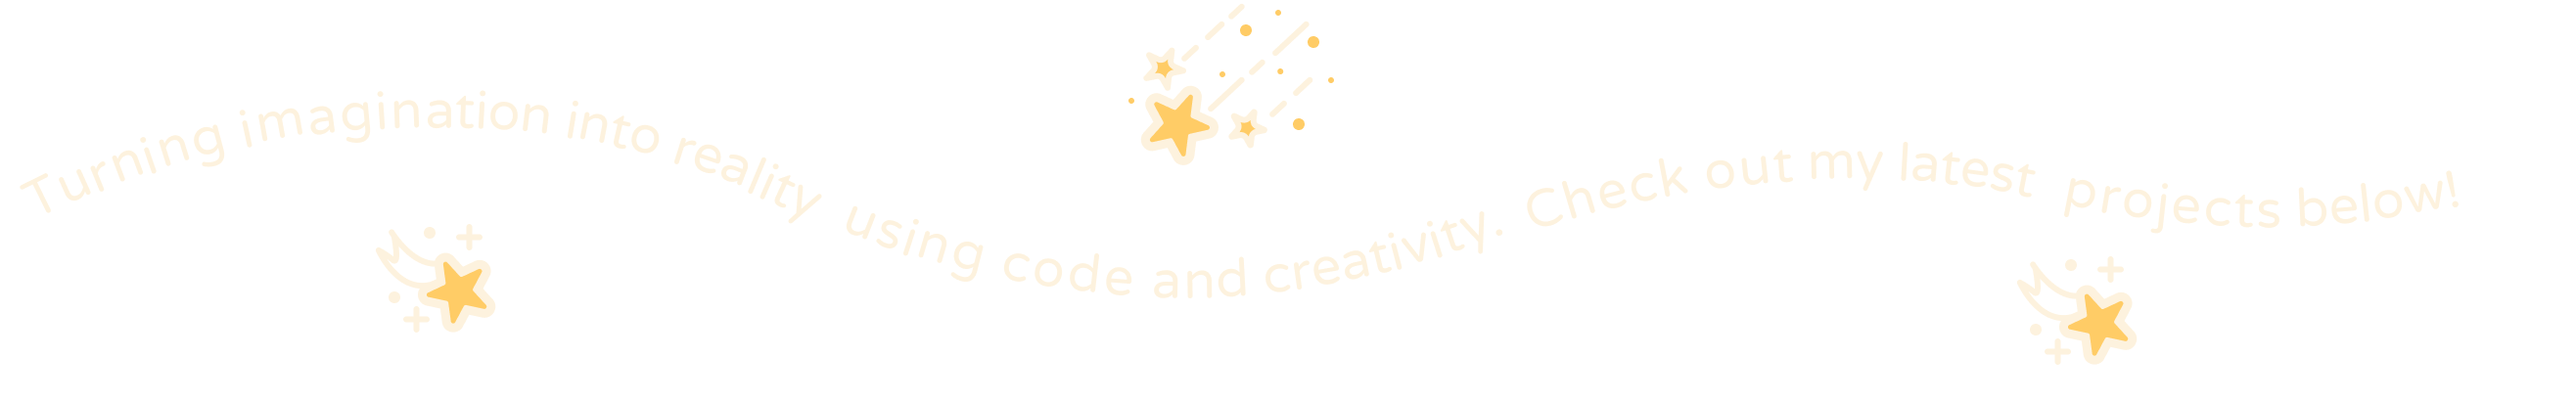
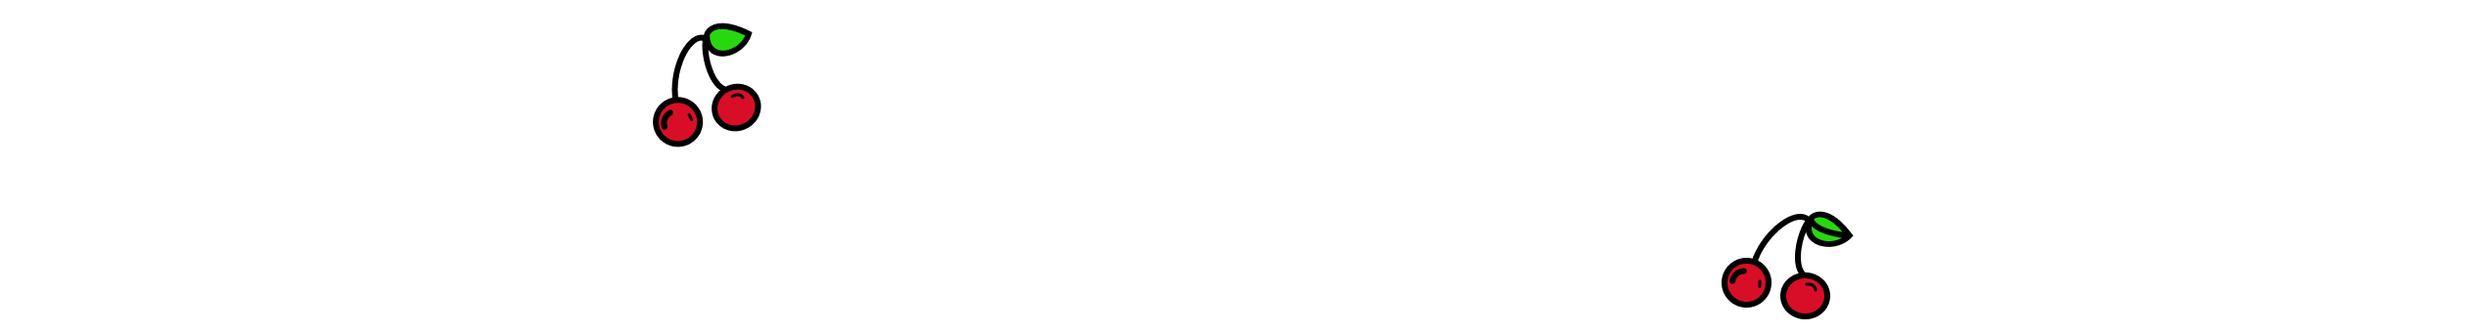
new image slider

diff --git a/client/src/App.css b/client/src/App.css
@@ -57,12 +57,6 @@ body {
   object-fit: contain;
 }
 
-.project-item img {
-  display: block;
-  max-width: 80%;
-  object-fit: contain;
-}
-
 /*== TYPOGRAPHY ==*/
 
 /* nav */
@@ -242,36 +236,60 @@ body {
 
 /* PROJECTS */
 
-.carousel {
-  background-color: #919bd5;
-  position: relative;
-  padding: 0 0.2em 4em;
-}
+/* imageslider */
 
 .image-slider-container {
   position: relative;
-  display: flex;
+  z-index: 0;
+  background-color: #919bd5;
   overflow: hidden;
 }
 
-.image-slide {
-  width: 70%;
-  height: auto;
-  object-fit: contain;
-  object-position: center;
-  animation: slideImage 5s linear infinite;
+.full-width-animation {
+  display: block;
+  z-index: 10;
+  position: relative;
+  width: 100%;
+  height: 13em;
 }
 
-@keyframes slideImage {
+.full-width-animation img {
+  bottom: 0;
+  display: block;
+  height: auto;
+  left: 0;
+  position: absolute;
+  right: 0;
+  top: 0;
+  width: 100%;
+}
+
+@keyframes full-width-animation--first-child {
   0% {
-    transform: translateX(18%);
+    transform: translateX(0);
   }
-  50% {
-    transform: translateX(30%);
+
+  to {
+    transform: translateX(-100%);
   }
-  100% {
-    transform: translateX(18%);
+}
+
+@keyframes full-width-animation--last-child {
+  0% {
+    transform: translateX(100%);
   }
+
+  to {
+    transform: translateX(0);
+  }
+}
+
+.full-width-animation img:first-child {
+  animation: full-width-animation--first-child 12s linear infinite;
+}
+
+.full-width-animation img:last-child {
+  animation: full-width-animation--last-child 12s linear infinite;
 }
 
 .projects {
@@ -287,6 +305,10 @@ body {
 
 /* slider */
 
+.project-img {
+  z-index: 5;
+}
+
 .slider-container {
   position: relative;
 }
@@ -299,30 +321,73 @@ body {
   overflow: hidden;
 }
 
+@keyframes rotate {
+  100% {
+    transform: rotate(1turn);
+  }
+}
+
 .project-item {
+  position: relative;
+  z-index: 0;
   height: 21em;
   width: 30%;
-  border-radius: 0.75rem;
-  border: 2px solid #fdf2de;
   max-width: 270px;
-  background-size: cover;
+  border-radius: 10px;
+  overflow: hidden;
   padding: auto;
   margin: 0;
-  background-color: #fdf2de;
   opacity: 0.9;
-  display: flex;
-  flex-direction: column;
-  overflow: hidden;
-  align-items: center;
+  transition: transform 0.5s ease-in-out;
+
+  &::before {
+    content: "";
+    position: absolute;
+    z-index: -2;
+    left: -50%;
+    top: -50%;
+    width: 200%;
+    height: 200%;
+    background-color: transparent;
+    background-repeat: no-repeat;
+    background-size: 50% 50%;
+    background-position: 0 0;
+    background-image: conic-gradient(
+      #cfc3af,
+      #d6cec2,
+      #dedad3,
+      #e8e6e3,
+      #f3f2f1
+    );
+    animation: rotate 3s linear infinite;
+    opacity: 0;
+    transition: opacity 0.3s ease-in-out;
+  }
+
+  .item-after {
+    content: "";
+    position: absolute;
+    z-index: -1;
+    left: 6px;
+    top: 6px;
+    width: calc(100% - 12px);
+    height: calc(100% - 12px);
+    border-radius: 5px;
+    box-shadow: 0 2px 10px rgba(0, 0, 0, 0.1);
+  }
+
+  &:hover::before {
+    opacity: 1;
+  }
 }
 
 .project-item:hover {
   flex: 0 0 30%;
   opacity: 1;
-  transform: scale(1.2);
-  transition: transform 0.5s ease-in-out, flex 0.5s ease-in-out;
+  transform: translateY(-10%) scale(105%);
 }
 
+/**/
 .prev,
 .next {
   position: absolute;
@@ -357,8 +422,7 @@ body {
 }
 
 .contact-container {
-  max-width: 400px;
-  min-width: 300px;
+  max-width: 380px;
   background-color: #fdf2de;
   border-radius: 0.75rem;
   border-width: 2px;
@@ -436,7 +500,7 @@ body {
   background-color: transparent;
   border: none;
   font-size: 2rem;
-  transition: all 0.5s ease-in-out;
+  transition: transform 0.5s ease-in-out, color 0.5s ease-in-out;
 }
 
 .form-feedback button:hover {
@@ -511,16 +575,65 @@ body {
   }
 
   .project-item {
-    height: 16em;
+    height: 13em;
     width: 30%;
+  }
+
+  .contact-container {
+    width: 35%;
+    min-width: 180px;
+    max-width: 200px;
+    height: 22em;
+  }
+
+  .contact-item {
+    padding-bottom: 0.75em;
+    row-gap: 0.25em;
+  }
+
+  .contact-item textarea {
+    height: 4em;
+  }
+
+  .contact-item-input {
+    height: 1.125em;
+  }
+
+  .contact-form h1 {
+    font-size: 1.25rem;
+  }
+
+  .contact-item label {
+    font-size: 0.75rem;
+    font-weight: 300;
+  }
+
+  .btn {
+    margin: 1em 3.4em;
+    font-weight: 500;
+    font-size: 0.8rem;
+    letter-spacing: 1px;
   }
 }
 
-@media screen and (max-width: 510px) {
+@media screen and (max-width: 530px) {
+  * {
+    font-size: 11px;
+  }
+
+  .title {
+    margin: 0.125em auto;
+  }
+
   .navlink-container {
     display: none;
   }
+
   .title {
     font-size: 4rem;
+  }
+
+  .about-skills ul li {
+    font-size: 0.75em;
   }
 }

diff --git a/client/src/ui/Slider.jsx b/client/src/ui/Slider.jsx
@@ -60,8 +60,16 @@ function Slider() {
             target="_blank"
             key={i}
             className="project-item"
-            style={{ backgroundImage: `url(${project.projectImg})` }}
           >
+            <div
+              className="item-after"
+              style={{
+                background:
+                  project.projectImg !== ""
+                    ? `url(${project.projectImg}) left top/cover no-repeat`
+                    : "#fdf2de",
+              }}
+            ></div>
             <h3>{project.projectName}</h3>
           </Link>
         ))}

diff --git a/client/src/ui/ImageSlider.jsx b/client/src/ui/ImageSlider.jsx
@@ -1,11 +1,11 @@
-// image imports
-import text1 from "../assets/text.png";
+import text from "../assets/text.png";
 
 function ImageSlider() {
   return (
-    <div className="carousel">
-      <div className="image-slider-container">
-        <img src={text1} alt="text" className="image-slide" />
+    <div className="image-slider-container">
+      <div className="full-width-animation">
+        <img src={text} alt="text" />
+        <img src={text} alt="text" />
       </div>
     </div>
   );
